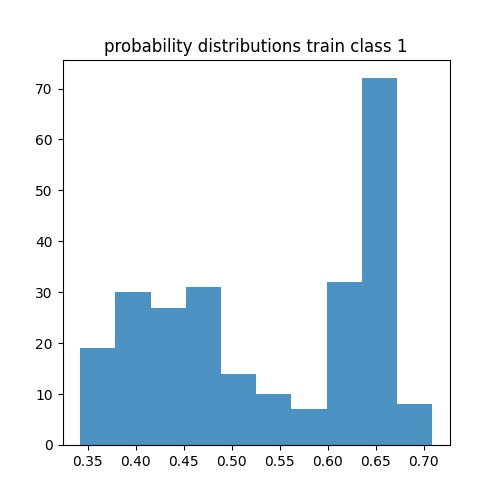
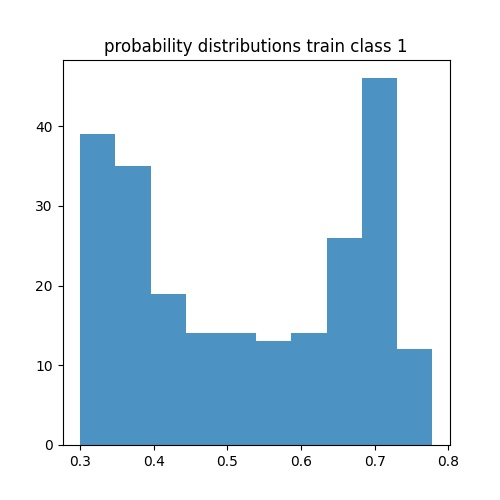
added multiple run support

diff --git a/whole.py b/whole.py
@@ -7,7 +7,7 @@ from sklearn.metrics import normalized_mutual_info_score
 from sklearn.decomposition import PCA, KernelPCA
 
 from qiskit import BasicAer, Aer
-from qiskit.circuit.library import ZZFeatureMap
+from qiskit.circuit.library import ZZFeatureMap, PauliFeatureMap
 from qiskit.utils import QuantumInstance, algorithm_globals
 from qiskit_machine_learning.algorithms import QSVC
 from qiskit_machine_learning.kernels import QuantumKernel
@@ -22,11 +22,11 @@ from sklearn.metrics import confusion_matrix, plot_confusion_matrix, ConfusionMa
 
 import sys
 
-n_c = 16
+n_c = 8
 C_SVM_SAMPLES = 500
 Q_SVM_SAMPLES = 500
 PREDICTIONS = 500
-
+RUNS = 3
 
 
 FEATURES = [32, 24, 40, 16, 8, 0, 48, 3, 51, 11, 19, 43, 27, 35, 57, 47]
@@ -54,21 +54,11 @@ def gen_hist(bg,sig,feature):
 data_path = '../data/'
 
 data = np.load(f"{data_path}x_data_normalized.npy")
-data = shuffle(data)
-
-x_train = data[:int(0.8*len(data)),:-1]
-y_train = data[:int(0.8*len(data)),-1]
-
-x_test = data[int(0.2*len(data)):,:-1]
-
-y_test = data[int(0.2*len(data)):,-1]
-
-bg_train = np.where(y_train == 0)
-sig_train = np.where(y_train == 1)
 
 
-#encoders = ['auc','pca','nys']
-encoders = ['auc']
+
+encoders = ['auc','pca','nys']
+#encoders = ['auc']
 
 from time import time
 CMAT_PATH = 'cmats/'
@@ -76,167 +66,195 @@ CMAT_PATH = 'cmats/'
 seed = 12345
 
 
-#f_maps = ['u2','zz']
-f_maps = ['u2']
+f_maps = ['u2','zz','xy']
+#f_maps = ['u2']
 
 zz = ZZFeatureMap(feature_dimension=n_c, reps=2, entanglement='linear')
 u2 = u2Reuploading(nqubits = n_c//2, nfeatures=n_c)
+xy = PauliFeatureMap(feature_dimension=n_c, reps=2, paulis=['XY'],entanglement = 'linear')
 
 backend = QuantumInstance(
     BasicAer.get_backend("statevector_simulator"), shots=1024, seed_simulator=seed, seed_transpiler=seed
 )
 
 
+
+
 print(f"running experiment with: \n\t classical svm samples {C_SVM_SAMPLES} \n\t Quantum SVM samples {Q_SVM_SAMPLES}")
 print("")
 
-for encoder in encoders:
-    if encoder == 'pca':
+measure_log = []
+for run in range(RUNS):
+    tr_begin = time()
+    data = shuffle(data)
+
+    x_train = data[:int(0.8*len(data)),:-1]
+    y_train = data[:int(0.8*len(data)),-1]
+
+    x_test = data[int(0.8*len(data)):,:-1]
+
+    y_test = data[int(0.8*len(data)):,-1]
+
+    bg_train = np.where(y_train == 0)
+    sig_train = np.where(y_train == 1)
+
+
+    for encoder in encoders:
+        if encoder == 'pca':
+            
+            transformer = PCA(n_components= n_c)
+            transformer.fit(x_train)
+
+            x_tf_train = transformer.transform(x_train)
+            x_tf_test = transformer.transform(x_test)
+
+        if encoder == 'nys':
+            
+            transformer = Nystroem(kernel='laplacian',gamma=0.2,n_components=n_c)
+            transformer.fit(x_train,y_train)
+
+            x_tf_train = transformer.transform(x_train)
+            x_tf_test = transformer.transform(x_test)
         
-        transformer = PCA(n_components= n_c)
-        transformer.fit(x_train)
+        if encoder == 'auc':
+            x_tf_train = x_train[:,FEATURES]
+            x_tf_test = x_test[:,FEATURES]
 
-        x_tf_train = transformer.transform(x_train)
-        x_tf_test = transformer.transform(x_test)
+            x_tf_train = x_tf_train[:,:n_c]
+            x_tf_test = x_tf_test[:,:n_c]
 
-    if encoder == 'nys':
-        
-        transformer = Nystroem(kernel='laplacian',gamma=0.2,n_components=n_c)
-        transformer.fit(x_train,y_train)
+        #declaring svm object
 
-        x_tf_train = transformer.transform(x_train)
-        x_tf_test = transformer.transform(x_test)
-    
-    if encoder == 'auc':
-        x_tf_train = x_train[:,FEATURES]
-        x_tf_test = x_test[:,FEATURES]
+        svm = SVC(kernel = 'rbf', probability=PROBA)
+        row_log = [f"{encoder}+rbf"]
 
-        x_tf_train = x_tf_train[:,:n_c]
-        x_tf_test = x_tf_test[:,:n_c]
-
-    #declaring svm object
-
-    svm = SVC(kernel = 'rbf', probability=PROBA)
-
-
-    print(f"running classical svm w. encoder {encoder}")
-    begin = time()
-    svm.fit(x_tf_train[:C_SVM_SAMPLES], y_train[:C_SVM_SAMPLES])
-    end = time()
-
-    print(f"\t training time: {end - begin : .2f}")
-
-    #predictions and confusion matrix
-    begin = time()
-    y_pred_train = svm.predict(x_tf_train[:PREDICTIONS])
-    end = time()
-
-    print(f"\t prediction time training set: {end - begin : .2f}")
-
-    cm = confusion_matrix(y_train[:PREDICTIONS],y_pred_train, normalize='true')
-    disp = ConfusionMatrixDisplay(cm)
-    disp.plot()
-    plt.title(f"classical svm w. encoder {encoder} training set")
-    plt.savefig(f"{CMAT_PATH}classical_{encoder}_train.jpg")
-
-
-    begin = time()
-    y_pred_test = svm.predict(x_tf_test[:PREDICTIONS])
-    end = time()
-
-    print(f"\t prediction time test set: {end - begin : .2f}")
-
-    cm = confusion_matrix(y_test[:PREDICTIONS],y_pred_test, normalize='true')
-    disp = ConfusionMatrixDisplay(cm)
-    disp.plot()
-    plt.title(f"classical svm w. encoder {encoder} test set")
-    plt.savefig(f"{CMAT_PATH}classical_{encoder}_test.jpg")
-
-    if PROBA:
-        print(f"\t\t CALCULATING ROC AUC SCORES: this may take some time")
-        y_proba_train = svm.predict_proba(x_tf_train[:PREDICTIONS])
-        score = roc_auc_score(y_train[:PREDICTIONS], y_proba_train[:,1])
-
-        print(f"\t\t Classical svm ROC AUC score TRAINING SET {score :.2f}")
-
-        y_proba_test = svm.predict_proba(x_tf_test[:PREDICTIONS])
-        score = roc_auc_score(y_test[:PREDICTIONS], y_proba_test[:,1])
-
-        print(f"\t\t Classical svm ROC AUC score TEST SET {score :.2f}")
-
-        """
-        Distribuzioni di probabilità
-        """
-
-        generate_hist_prob(y_train[:PREDICTIONS], y_pred_train, y_proba_train, 'probability distributions train', f"{CMAT_PATH}train")
-
-
-
-    """
-    Quantum computing part
-    """
-    for feature_map in f_maps:
-
-        if feature_map == 'u2':
-            kernel = QuantumKernel(feature_map=u2 , quantum_instance=backend)
-        if feature_map == 'zz':
-            kernel = QuantumKernel(feature_map=zz , quantum_instance=backend)
-
-
-        qsvm = SVC(kernel=kernel.evaluate, probability=PROBA)
-
-        print(f"running quantum svm w. encoder {encoder.upper()} feature map {feature_map.upper()}")
-
+        print(f"running classical svm w. encoder {encoder}")
         begin = time()
-        qsvm.fit(x_tf_train[:Q_SVM_SAMPLES], y_train[:Q_SVM_SAMPLES])
+        svm.fit(x_tf_train[:C_SVM_SAMPLES], y_train[:C_SVM_SAMPLES])
         end = time()
-
+        row_log.append(end-begin)
         print(f"\t training time: {end - begin : .2f}")
 
+        #predictions and confusion matrix
         begin = time()
-        y_pred_train = qsvm.predict(x_tf_train[:PREDICTIONS])
+        y_pred_train = svm.predict(x_tf_train[:PREDICTIONS])
         end = time()
-
+        row_log.append(end-begin)
         print(f"\t prediction time training set: {end - begin : .2f}")
 
         cm = confusion_matrix(y_train[:PREDICTIONS],y_pred_train, normalize='true')
         disp = ConfusionMatrixDisplay(cm)
         disp.plot()
-        plt.title(f"quantum svm w. encoder {encoder} map {feature_map} training set ")
-        plt.savefig(f"{CMAT_PATH}quantum_{encoder}_{feature_map}_train.jpg")
-        
-        begin = time()
-        y_pred_test = qsvm.predict(x_tf_test[:PREDICTIONS])
-        end = time()
+        plt.title(f"classical svm w. encoder {encoder} training set")
+        plt.savefig(f"{CMAT_PATH}classical_{encoder}_train.jpg")
 
+
+        begin = time()
+        y_pred_test = svm.predict(x_tf_test[:PREDICTIONS])
+        end = time()
+        row_log.append(end-begin)
         print(f"\t prediction time test set: {end - begin : .2f}")
 
         cm = confusion_matrix(y_test[:PREDICTIONS],y_pred_test, normalize='true')
         disp = ConfusionMatrixDisplay(cm)
         disp.plot()
-        plt.title(f"quantum svm w. encoder {encoder} map {feature_map}  test set")
-        plt.savefig(f"{CMAT_PATH}quantum_{encoder}_{feature_map}_test.jpg")
+        plt.title(f"classical svm w. encoder {encoder} test set")
+        plt.savefig(f"{CMAT_PATH}classical_{encoder}_test.jpg")
 
         if PROBA:
             print(f"\t\t CALCULATING ROC AUC SCORES: this may take some time")
-            y_proba_train = qsvm.predict_proba(x_tf_train[:PREDICTIONS])
+            y_proba_train = svm.predict_proba(x_tf_train[:PREDICTIONS])
             score = roc_auc_score(y_train[:PREDICTIONS], y_proba_train[:,1])
 
-            print(f"\t\t Quantum svm ROC AUC score TRAINING SET {score :.2f}")
-
-            y_proba_test = qsvm.predict_proba(x_tf_test[:PREDICTIONS])
+            print(f"\t\t Classical svm ROC AUC score TRAINING SET {score :.2f}")
+            row_log.append(score)
+            y_proba_test = svm.predict_proba(x_tf_test[:PREDICTIONS])
             score = roc_auc_score(y_test[:PREDICTIONS], y_proba_test[:,1])
-
-            print(f"\t\t Quantum svm ROC AUC score TEST SET {score :.2f}")
+            row_log.append(score)
+            print(f"\t\t Classical svm ROC AUC score TEST SET {score :.2f}")
 
             """
-            Distribuzioni di probabilità 
+            Distribuzioni di probabilità
             """
 
+            generate_hist_prob(y_train[:PREDICTIONS], y_pred_train, y_proba_train, 'probability distributions train', f"{CMAT_PATH}train")
+        measure_log.append(row_log)
 
 
-    
+        """
+        Quantum computing part
+        """
+        for feature_map in f_maps:
 
+            if feature_map == 'u2':
+                kernel = QuantumKernel(feature_map=u2 , quantum_instance=backend)
+            if feature_map == 'zz':
+                kernel = QuantumKernel(feature_map=zz , quantum_instance=backend)
+            if feature_map == 'xy':
+                kernel = QuantumKernel(feature_map=xy , quantum_instance=backend)
+
+
+            qsvm = SVC(kernel=kernel.evaluate, probability=PROBA)
+            row_log = [f"{encoder}+{feature_map}"]
+            print(f"running quantum svm w. encoder {encoder.upper()} feature map {feature_map.upper()}")
+
+            begin = time()
+            qsvm.fit(x_tf_train[:Q_SVM_SAMPLES], y_train[:Q_SVM_SAMPLES])
+            end = time()
+            row_log.append(end-begin)
+            print(f"\t training time: {end - begin : .2f}")
+
+            begin = time()
+            y_pred_train = qsvm.predict(x_tf_train[:PREDICTIONS])
+            end = time()
+            row_log.append(end-begin)
+            print(f"\t prediction time training set: {end - begin : .2f}")
+
+            cm = confusion_matrix(y_train[:PREDICTIONS],y_pred_train, normalize='true')
+            disp = ConfusionMatrixDisplay(cm)
+            disp.plot()
+            plt.title(f"quantum svm w. encoder {encoder} map {feature_map} training set ")
+            plt.savefig(f"{CMAT_PATH}quantum_{encoder}_{feature_map}_train.jpg")
+            
+            begin = time()
+            y_pred_test = qsvm.predict(x_tf_test[:PREDICTIONS])
+            end = time()
+            row_log.append(end-begin)
+            print(f"\t prediction time test set: {end - begin : .2f}")
+
+            cm = confusion_matrix(y_test[:PREDICTIONS],y_pred_test, normalize='true')
+            disp = ConfusionMatrixDisplay(cm)
+            disp.plot()
+            plt.title(f"quantum svm w. encoder {encoder} map {feature_map}  test set")
+            plt.savefig(f"{CMAT_PATH}quantum_{encoder}_{feature_map}_test.jpg")
+
+            if PROBA:
+                print(f"\t\t CALCULATING ROC AUC SCORES: this may take some time")
+                y_proba_train = qsvm.predict_proba(x_tf_train[:PREDICTIONS])
+                score = roc_auc_score(y_train[:PREDICTIONS], y_proba_train[:,1])
+
+                print(f"\t\t Quantum svm ROC AUC score TRAINING SET {score :.2f}")
+                row_log.append(score)
+
+                y_proba_test = qsvm.predict_proba(x_tf_test[:PREDICTIONS])
+                score = roc_auc_score(y_test[:PREDICTIONS], y_proba_test[:,1])
+                row_log.append(score)
+
+                print(f"\t\t Quantum svm ROC AUC score TEST SET {score :.2f}")
+
+                """
+                Distribuzioni di probabilità 
+                """
+            measure_log.append(row_log)
+    tr_end = time()
+    print(f"run time {tr_end - tr_begin : .2f}")
+print("\n\n")
+print(measure_log)
+        
+import pickle
+
+with open('data_dump', 'wb') as fp:
+    pickle.dump(measure_log, fp)
 
 
 

diff --git a/utils.py b/utils.py
@@ -111,7 +111,7 @@ def generate_hist_prob(y_true, y_model, y_proba, title, path):
         idx = np.where(y_true == c_true)
         plt.figure(figsize=(5,5))
 
-        print(np.shape(y_proba[idx, c_true]))
+        #print(np.shape(y_proba[idx, c_true]))
         plt.hist(y_proba[idx, c_true].T, alpha = 0.8)
         plt.title(f"{title} class {c_true}")
         plt.savefig(f"{path}_c{c_true}.jpg")
